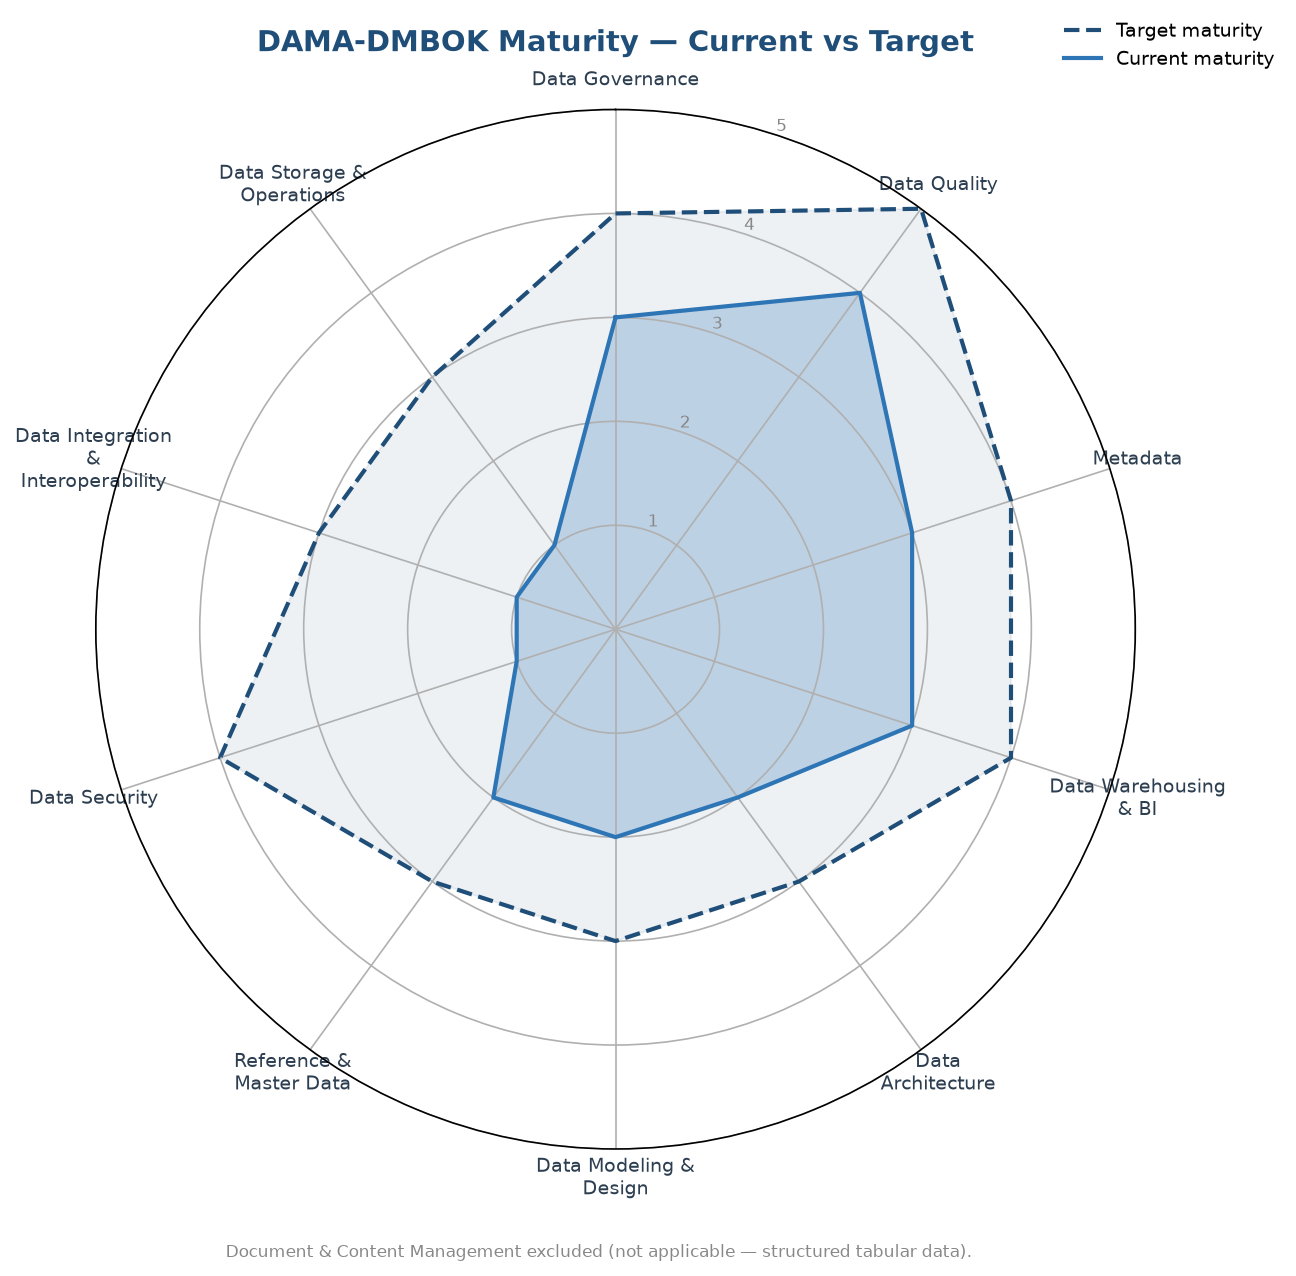
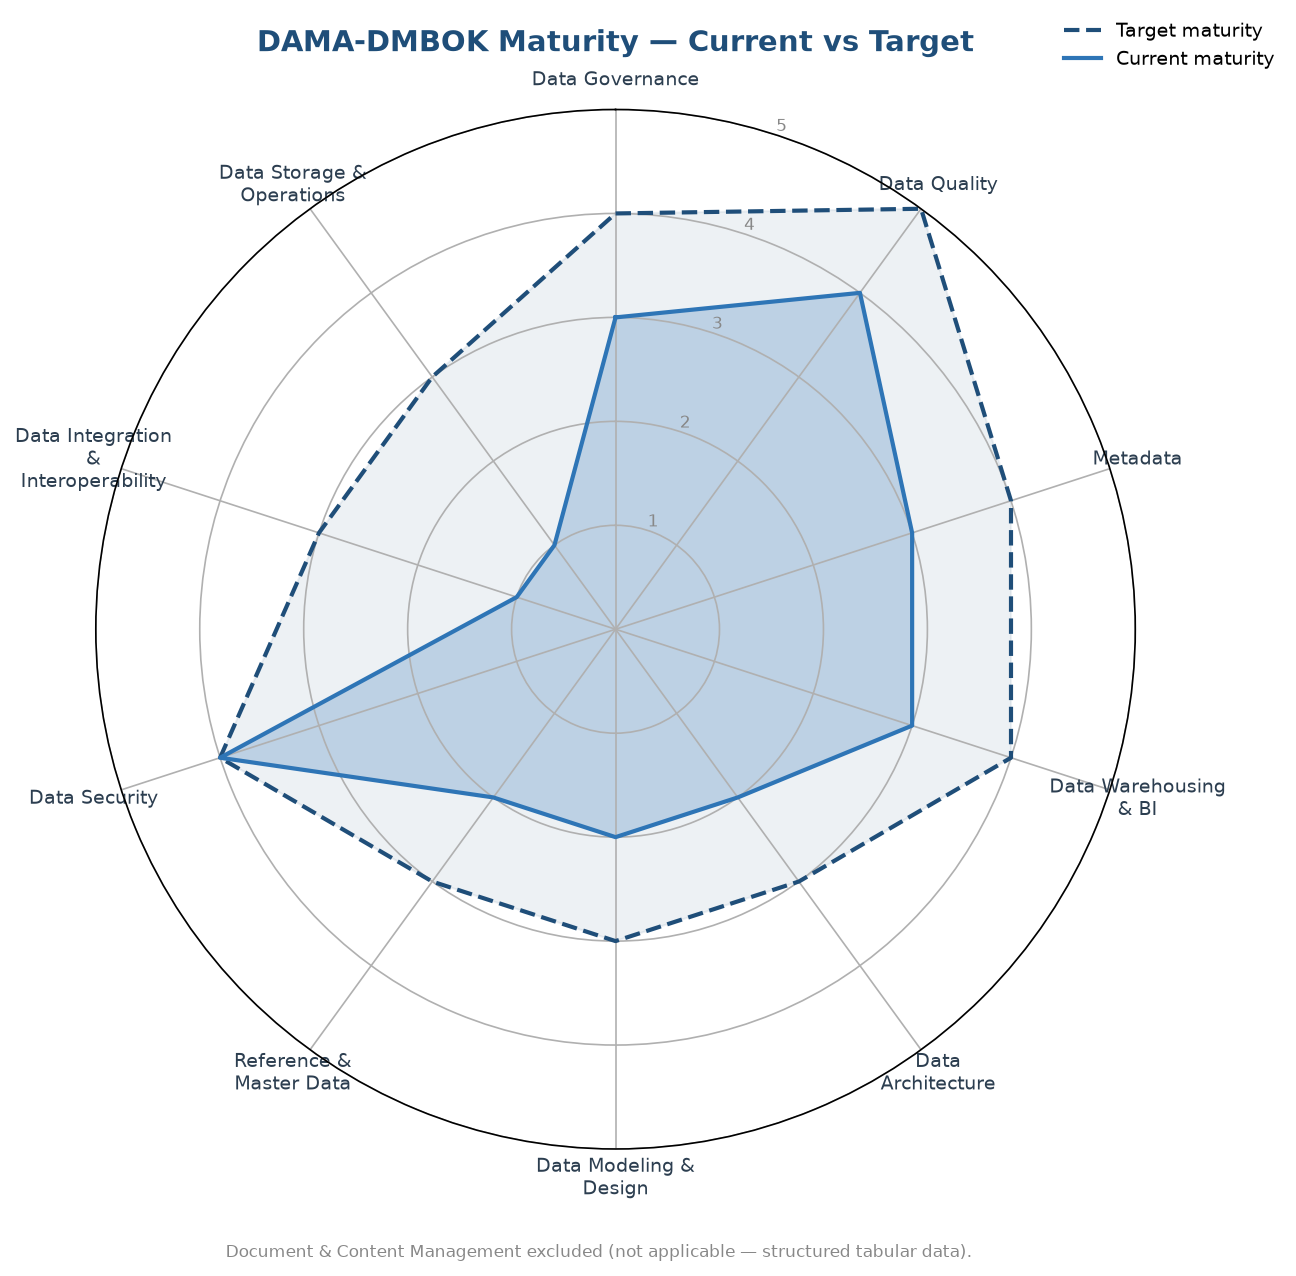
Update DAMA assessment for delivered Data Security workstream; link from README

Changed region(s): [[0.1543, 0.4585, 0.4012, 0.6418]]

diff --git a/README.md b/README.md
@@ -216,6 +216,15 @@ The project is mapped to the **DAMA-DMBOK2** data management framework and score
 - **Assessment:** [`governance/dama_alignment.csv`](governance/dama_alignment.csv) — all 11 areas scored 1–5
 - **Narrative & roadmap:** [`governance/README.md`](governance/README.md) — what the wheel is, how to read the scores, and the three improvement workstreams (Security · Scalability & Integration · AI Governance)
 
+### 9. Data Security & Access Control
+
+A **classification-driven security framework** — access and masking are governed by configuration, not hardcoded to any column, so onboarding a new data source needs **config, not code**. It maps the 6 governance roles to `ALLOW` / `MASK` / `DENY` decisions across three sensitivity tiers, applies five masking methods (banding, hashing, redaction, partial, plus column denial), and records every access in a retention-capped audit log. Enforced live in the dashboard's **🔒 Data Security** tab and Exception Explorer.
+
+Because the housing data is aggregate and holds no personal data, the framework is demonstrated against a small, clearly-labelled synthetic fixture to prove it handles Confidential/PII data — a deliberate, documented design decision.
+
+- **Policy & rationale:** [`docs/data_security_policy.md`](docs/data_security_policy.md) — classification scheme, role model, masking methods, audit, and the production boundaries not implemented
+- **Framework:** [`security/`](security/) — access matrix, classification register, masking policy, engine, and audit log
+
 ---
 
 ## 📁 Project Structure
@@ -263,7 +272,8 @@ canadian-housing-data-governance/
 ├── docs/
 │   ├── dq_rules_sql.sql                             # All 15 DQ rules as executable SQL
 │   ├── data_lineage_diagram.mermaid                 # Mermaid source for lineage diagram
-│   └── data_lineage_diagram.png                     # Static PNG export
+│   ├── data_lineage_diagram.png                     # Static PNG export
+│   └── data_security_policy.md                      # Data security policy, rationale & boundaries
 │
 ├── governance/
 │   ├── dama_alignment.csv                           # DAMA-DMBOK maturity assessment (11 areas)
@@ -271,8 +281,15 @@ canadian-housing-data-governance/
 │   ├── dama_maturity_chart.png                      # Radar chart — current vs target maturity
 │   └── README.md                                    # DAMA alignment narrative & improvement roadmap
 │
+├── security/
+│   ├── access_control_matrix.csv                    # Role × sensitivity tier → ALLOW/MASK/DENY
+│   ├── data_classification.csv                      # Sensitivity tier of every column, per dataset
+│   ├── masking_policy.csv                           # Masking method per column/tier (defaults + overrides)
+│   ├── masking_engine.py                            # Classification-driven role-based masking engine
+│   └── sample_sensitive_records.csv                 # Synthetic fixture demonstrating the Confidential tier
+│
 ├── dq_engine.py            # DQ rules execution engine (15 rules, remediation, scorecard outputs)
-├── app.py                   # Streamlit interactive DQ dashboard (4 tabs)
+├── app.py                   # Streamlit interactive DQ dashboard (5 tabs, incl. Data Security)
 ├── requirements.txt         # Python dependencies
 └── README.md
 ```

diff --git a/governance/README.md b/governance/README.md
@@ -39,16 +39,16 @@ Each knowledge area is scored on a CMMI(Capability Maturity Model Integration)-s
 
 ![DAMA-DMBOK maturity radar chart comparing current versus target maturity across the scored knowledge areas](dama_maturity_chart.png)
 
-- **Strong (Defined–Managed):** Data Quality (4), and Metadata, Data Governance, and Data Warehousing & BI (3) — the analyst-facing core of the project.
+- **Strong (Defined–Managed):** Data Quality (4) and Data Security (4), with Metadata, Data Governance, and Data Warehousing & BI (3) — the analyst-facing core of the project.
 - **Emerging (2):** Data Architecture, Data Modeling & Design, and Reference & Master Data.
-- **Early stage (Initial, 1):** Data Security, Data Integration & Interoperability, and Data Storage & Operations — the areas the roadmap below targets.
+- **Early stage (Initial, 1):** Data Integration & Interoperability and Data Storage & Operations — the areas Workstream 2 targets.
 - **Not applicable:** Document & Content Management (this is a structured, tabular dataset).
 
 ## Improvement roadmap
 
 The improvement initiatives group into three sequenced workstreams:
 
-1. **Workstream 1 — Data Security.** Role-based access control, data masking driven by sensitivity classification, and access auditing. Raises Data Security from 1 toward 4.
+1. **Workstream 1 — Data Security ✅ Delivered.** Classification-driven role-based access control, sensitivity-based data masking, and access auditing with a retention policy. Raised Data Security from 1 to 4 — see [`docs/data_security_policy.md`](../docs/data_security_policy.md).
 2. **Workstream 2 — Scalability & Integration.** Multi-source ingestion, storage layering and lifecycle operations, a warehouse/serving layer, a target-state architecture and data model, formalized reference data, and DQ trend monitoring. Raises Integration, Storage, Architecture, Modeling, Reference & Master Data, Metadata, and BI toward their targets.
 3. **Workstream 3 — AI Governance.** A governance policy framework and an AI governance layer aligned to the EU AI Act (Article 10 data governance for high-risk systems). Raises Data Governance from 3 toward 4.
 